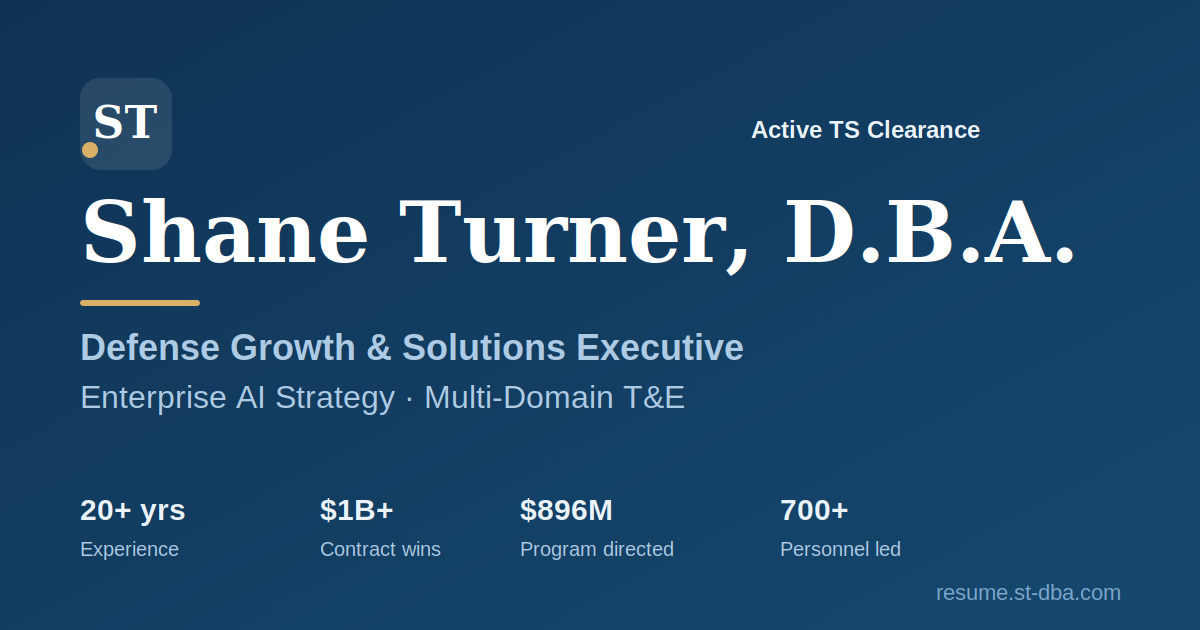
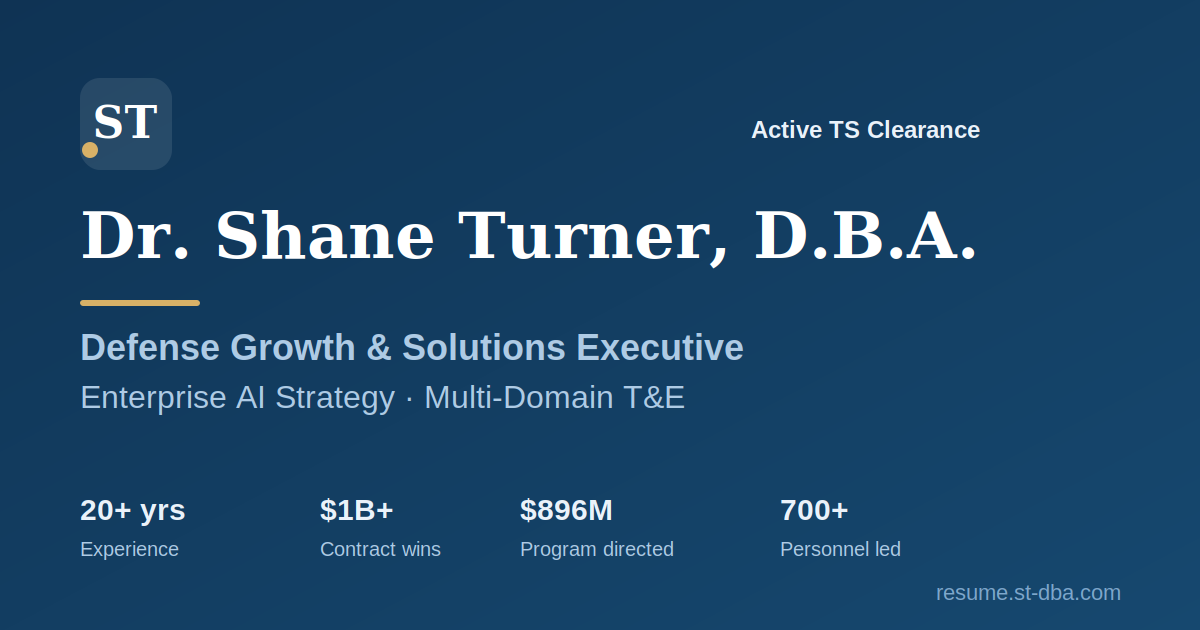
Stronger hero opener and feature Dr. title
- Lead with a value headline ("Turning defense data into decision
  advantage") and demote the name to the eyebrow; fold the value line
  into the subline.
- Add a concrete, modern hook: stood up the shAIne enterprise AI
  platform in its first month with auditable ROI.
- Feature the Dr. honorific across the eyebrow, header, footer, title,
  meta, social card, and JSON-LD (honorificPrefix).

Changed region(s): [[0.0617, 0.3016, 0.8942, 0.4524]]

diff --git a/index.html b/index.html
@@ -3,25 +3,25 @@
 <head>
   <meta charset="utf-8" />
   <meta name="viewport" content="width=device-width, initial-scale=1" />
-  <title>Shane Turner, D.B.A. · Defense Growth & Solutions Executive</title>
+  <title>Dr. Shane Turner, D.B.A. · Defense Growth & Solutions Executive</title>
 
-  <meta name="description" content="Shane Turner, D.B.A. Defense growth and solutions executive with 20+ years across Navy, Army, Air Force, Space, and USMC programs. Enterprise AI strategy, multi-domain test & evaluation, $1B+ in contract wins." />
-  <meta name="author" content="Shane Turner" />
+  <meta name="description" content="Dr. Shane Turner, D.B.A. Defense growth and solutions executive with 20+ years across Navy, Army, Air Force, Space, and USMC programs. Enterprise AI strategy, multi-domain test & evaluation, $1B+ in contract wins." />
+  <meta name="author" content="Dr. Shane Turner" />
   <meta name="theme-color" content="#0b1f33" />
   <meta name="color-scheme" content="light dark" />
 
   <meta property="og:type" content="profile" />
-  <meta property="og:title" content="Shane Turner, D.B.A. · Defense Growth & Solutions Executive" />
+  <meta property="og:title" content="Dr. Shane Turner, D.B.A. · Defense Growth & Solutions Executive" />
   <meta property="og:description" content="Enterprise AI strategy, multi-domain test & evaluation, and $1B+ in contract wins across Navy, Army, Air Force, Space, and USMC programs." />
   <meta property="og:url" content="https://resume.st-dba.com/" />
   <meta property="og:image" content="https://resume.st-dba.com/assets/og-card.png" />
   <meta property="og:image:width" content="1200" />
   <meta property="og:image:height" content="630" />
-  <meta property="og:image:alt" content="Shane Turner, D.B.A. · Defense Growth & Solutions Executive" />
+  <meta property="og:image:alt" content="Dr. Shane Turner, D.B.A. · Defense Growth & Solutions Executive" />
   <meta property="profile:first_name" content="Shane" />
   <meta property="profile:last_name" content="Turner" />
   <meta name="twitter:card" content="summary_large_image" />
-  <meta name="twitter:title" content="Shane Turner, D.B.A. · Defense Growth & Solutions Executive" />
+  <meta name="twitter:title" content="Dr. Shane Turner, D.B.A. · Defense Growth & Solutions Executive" />
   <meta name="twitter:description" content="Enterprise AI strategy, multi-domain T&E, and $1B+ in contract wins." />
   <meta name="twitter:image" content="https://resume.st-dba.com/assets/og-card.png" />
   <link rel="canonical" href="https://resume.st-dba.com/" />
@@ -39,6 +39,7 @@
     "@context": "https://schema.org",
     "@type": "Person",
     "name": "Shane Turner",
+    "honorificPrefix": "Dr.",
     "honorificSuffix": "D.B.A.",
     "jobTitle": "Senior Vice President, Solutions & Artificial Intelligence",
     "worksFor": { "@type": "Organization", "name": "Astrion" },
@@ -61,9 +62,9 @@
   <!-- ===================== Header ===================== -->
   <header class="site-header" data-no-print>
     <div class="shell site-header__inner">
-      <a class="brand" href="#top" aria-label="Shane Turner, top of page">
+      <a class="brand" href="#top" aria-label="Dr. Shane Turner, top of page">
         <span class="brand__mark" aria-hidden="true">ST</span>
-        <span class="brand__name">Shane Turner<span class="brand__cred">, D.B.A.</span></span>
+        <span class="brand__name">Dr. Shane Turner<span class="brand__cred">, D.B.A.</span></span>
       </a>
 
       <nav class="nav" aria-label="Section navigation">
@@ -92,13 +93,17 @@
     <section class="hero">
       <div class="hero__bg" aria-hidden="true"></div>
       <div class="shell hero__inner">
-        <p class="hero__eyebrow">Defense Growth &amp; Solutions Executive · Enterprise AI</p>
-        <h1 class="hero__name">Shane Turner<span class="hero__cred">, D.B.A.</span></h1>
+        <p class="hero__eyebrow">Dr. Shane Turner, D.B.A. · Defense Growth &amp; Solutions Executive</p>
+        <h1 class="hero__headline">Turning defense data into <span class="hero__accent">decision advantage</span>.</h1>
         <p class="hero__lead">
-          I help defense organizations turn operational, test, and training data into
-          <strong>wins, fielded capability, and measurable ROI</strong>. Twenty years across Navy, Army,
-          Air Force, Space, and USMC programs, leading cleared technical teams and standing up enterprise
-          AI for Layered Defense and Integrated Fires.
+          I turn operational, test, and training data into <strong>wins, fielded capability, and measurable
+          ROI</strong>. 20+ years across Navy, Army, Air Force, Space, and USMC programs, leading cleared
+          teams and standing up enterprise AI for Layered Defense and Integrated Fires.
+        </p>
+        <p class="hero__hook">
+          <span class="hero__hook-mark" aria-hidden="true">▸</span>
+          Most recently stood up <strong>shAIne</strong>, an enterprise AI platform, in its first month with
+          measured, auditable ROI.
         </p>
 
         <ul class="hero__badges" aria-label="At a glance">
@@ -479,7 +484,7 @@
 
   <footer class="footer">
     <div class="shell footer__inner">
-      <p class="footer__name">Shane Turner, D.B.A.</p>
+      <p class="footer__name">Dr. Shane Turner, D.B.A.</p>
       <p class="footer__links" data-no-print>
         <a href="mailto:shane@st-dba.com">shane@st-dba.com</a>
         <span aria-hidden="true">·</span>

diff --git a/assets/styles.css b/assets/styles.css
@@ -161,17 +161,23 @@ strong { font-weight: 700; color: inherit; }
   font-size: .82rem; font-weight: 600; letter-spacing: .16em; text-transform: uppercase;
   color: var(--gold-bright); margin: 0 0 1rem;
 }
-.hero__name {
+.hero__headline {
   font-family: var(--font-display); font-weight: 600;
-  font-size: clamp(2.7rem, 7vw, 5rem); line-height: 1.02; letter-spacing: -.015em;
-  color: #fff; margin: 0 0 1.2rem;
+  font-size: clamp(2.2rem, 5.4vw, 4rem); line-height: 1.05; letter-spacing: -.015em;
+  color: #fff; margin: 0 0 1.2rem; max-width: 18ch;
 }
-.hero__cred { color: var(--gold-bright); font-weight: 500; }
+.hero__accent { color: var(--gold-bright); }
 .hero__lead {
   max-width: 46rem; font-size: clamp(1.05rem, 2vw, 1.3rem); line-height: 1.55;
-  color: #c6d6e6; margin: 0 0 1.6rem;
+  color: #c6d6e6; margin: 0 0 1.1rem;
 }
 .hero__lead strong { color: #fff; }
+.hero__hook {
+  display: flex; gap: .55rem; align-items: baseline;
+  max-width: 46rem; margin: 0 0 1.8rem; font-size: 1rem; color: #c6d6e6;
+}
+.hero__hook strong { color: var(--gold-bright); font-weight: 600; }
+.hero__hook-mark { color: var(--gold-bright); font-weight: 700; flex: none; }
 
 .hero__badges { list-style: none; margin: 0 0 2rem; padding: 0; display: flex; flex-wrap: wrap; gap: .55rem; }
 .hero__badges li {
@@ -366,13 +372,14 @@ strong { font-weight: 700; color: inherit; }
     .cards > .card:nth-child(3) { animation-range: entry 8% entry 40%; }
     .cards > .card:nth-child(4) { animation-range: entry 12% entry 44%; }
   }
-  .hero__eyebrow, .hero__name, .hero__lead, .hero__badges, .hero__cta, .hero__stats {
+  .hero__eyebrow, .hero__headline, .hero__lead, .hero__hook, .hero__badges, .hero__cta, .hero__stats {
     animation: rise .6s cubic-bezier(.2,.7,.2,1) both;
   }
-  .hero__name { animation-delay: .05s; }
+  .hero__headline { animation-delay: .05s; }
   .hero__lead { animation-delay: .12s; }
-  .hero__badges { animation-delay: .18s; }
-  .hero__cta { animation-delay: .24s; }
+  .hero__hook { animation-delay: .18s; }
+  .hero__badges { animation-delay: .22s; }
+  .hero__cta { animation-delay: .28s; }
   .hero__stats { animation-delay: .3s; }
 }
 @keyframes reveal { from { opacity: 0; transform: translateY(22px); } to { opacity: 1; transform: none; } }
@@ -410,11 +417,14 @@ strong { font-weight: 700; color: inherit; }
 
   .hero, .cta, .footer { background: #fff !important; color: #000 !important; }
   .hero__inner, .cta__inner { padding: 0 0 .5rem; }
-  .hero__eyebrow { color: #333 !important; letter-spacing: .1em; margin-bottom: .3rem; }
-  .hero__name { font-size: 22pt; color: #000 !important; }
-  .hero__cred { color: #333 !important; }
-  .hero__lead { font-size: 10.5pt; color: #000 !important; max-width: none; margin-bottom: .4rem; }
+  .hero__eyebrow { font-size: 16pt; font-weight: 700; color: #000 !important; letter-spacing: normal; text-transform: none; margin-bottom: .15rem; }
+  .hero__headline { font-size: 12pt; color: #0e2c49 !important; max-width: none; margin-bottom: .4rem; }
+  .hero__accent { color: #0e2c49 !important; }
+  .hero__lead { font-size: 10.5pt; color: #000 !important; max-width: none; margin-bottom: .3rem; }
   .hero__lead strong { color: #000 !important; }
+  .hero__hook { font-size: 9.5pt; color: #000 !important; max-width: none; margin-bottom: .4rem; }
+  .hero__hook strong { color: #0e2c49 !important; }
+  .hero__hook-mark { color: #0e2c49 !important; }
 
   .hero__stats { display: flex; gap: 1.2rem; border: none; background: none; border-top: 1px solid #c2c2c2; border-bottom: 1px solid #c2c2c2; border-radius: 0; margin-top: .5rem; }
   .hero__stats .stat { background: none !important; padding: .4rem 0; flex: 1; }
